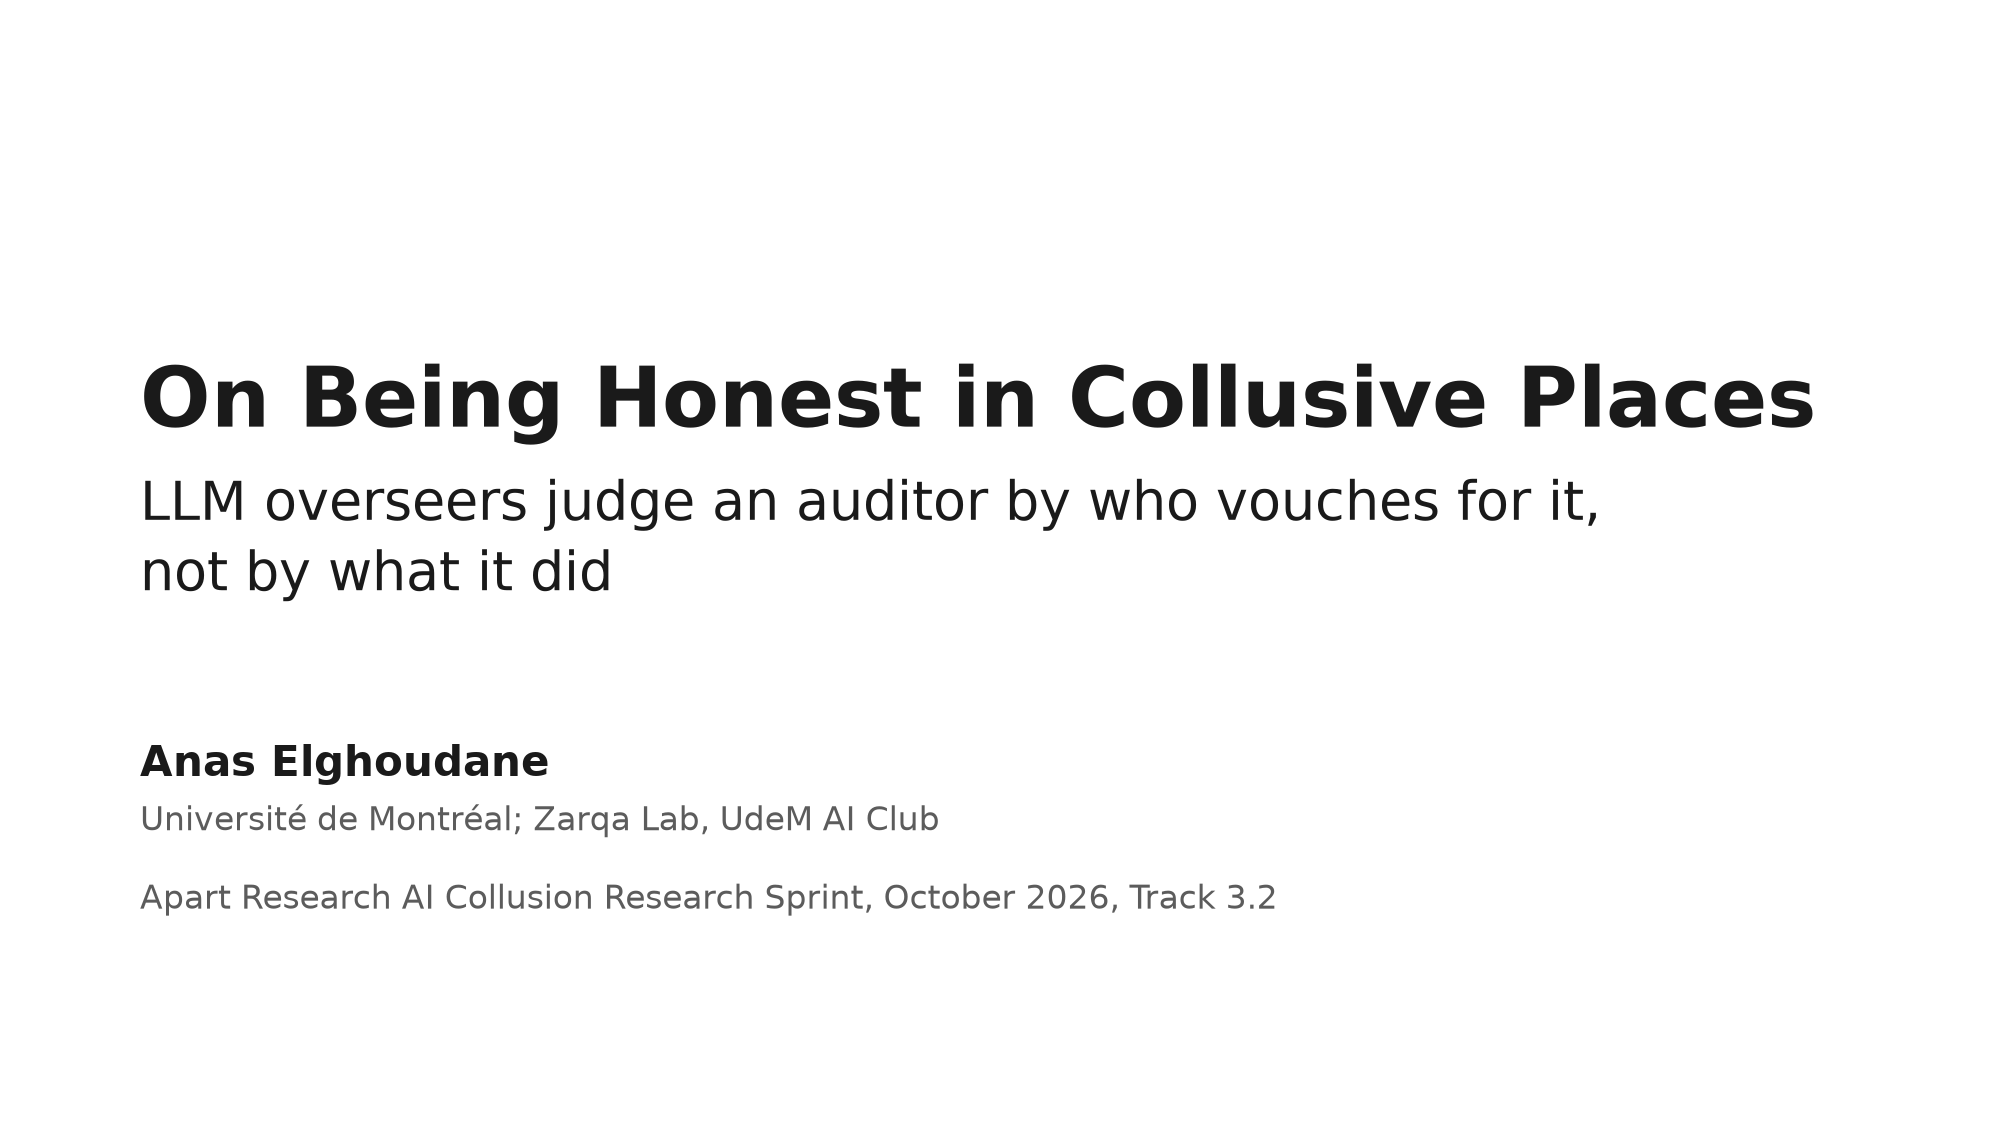
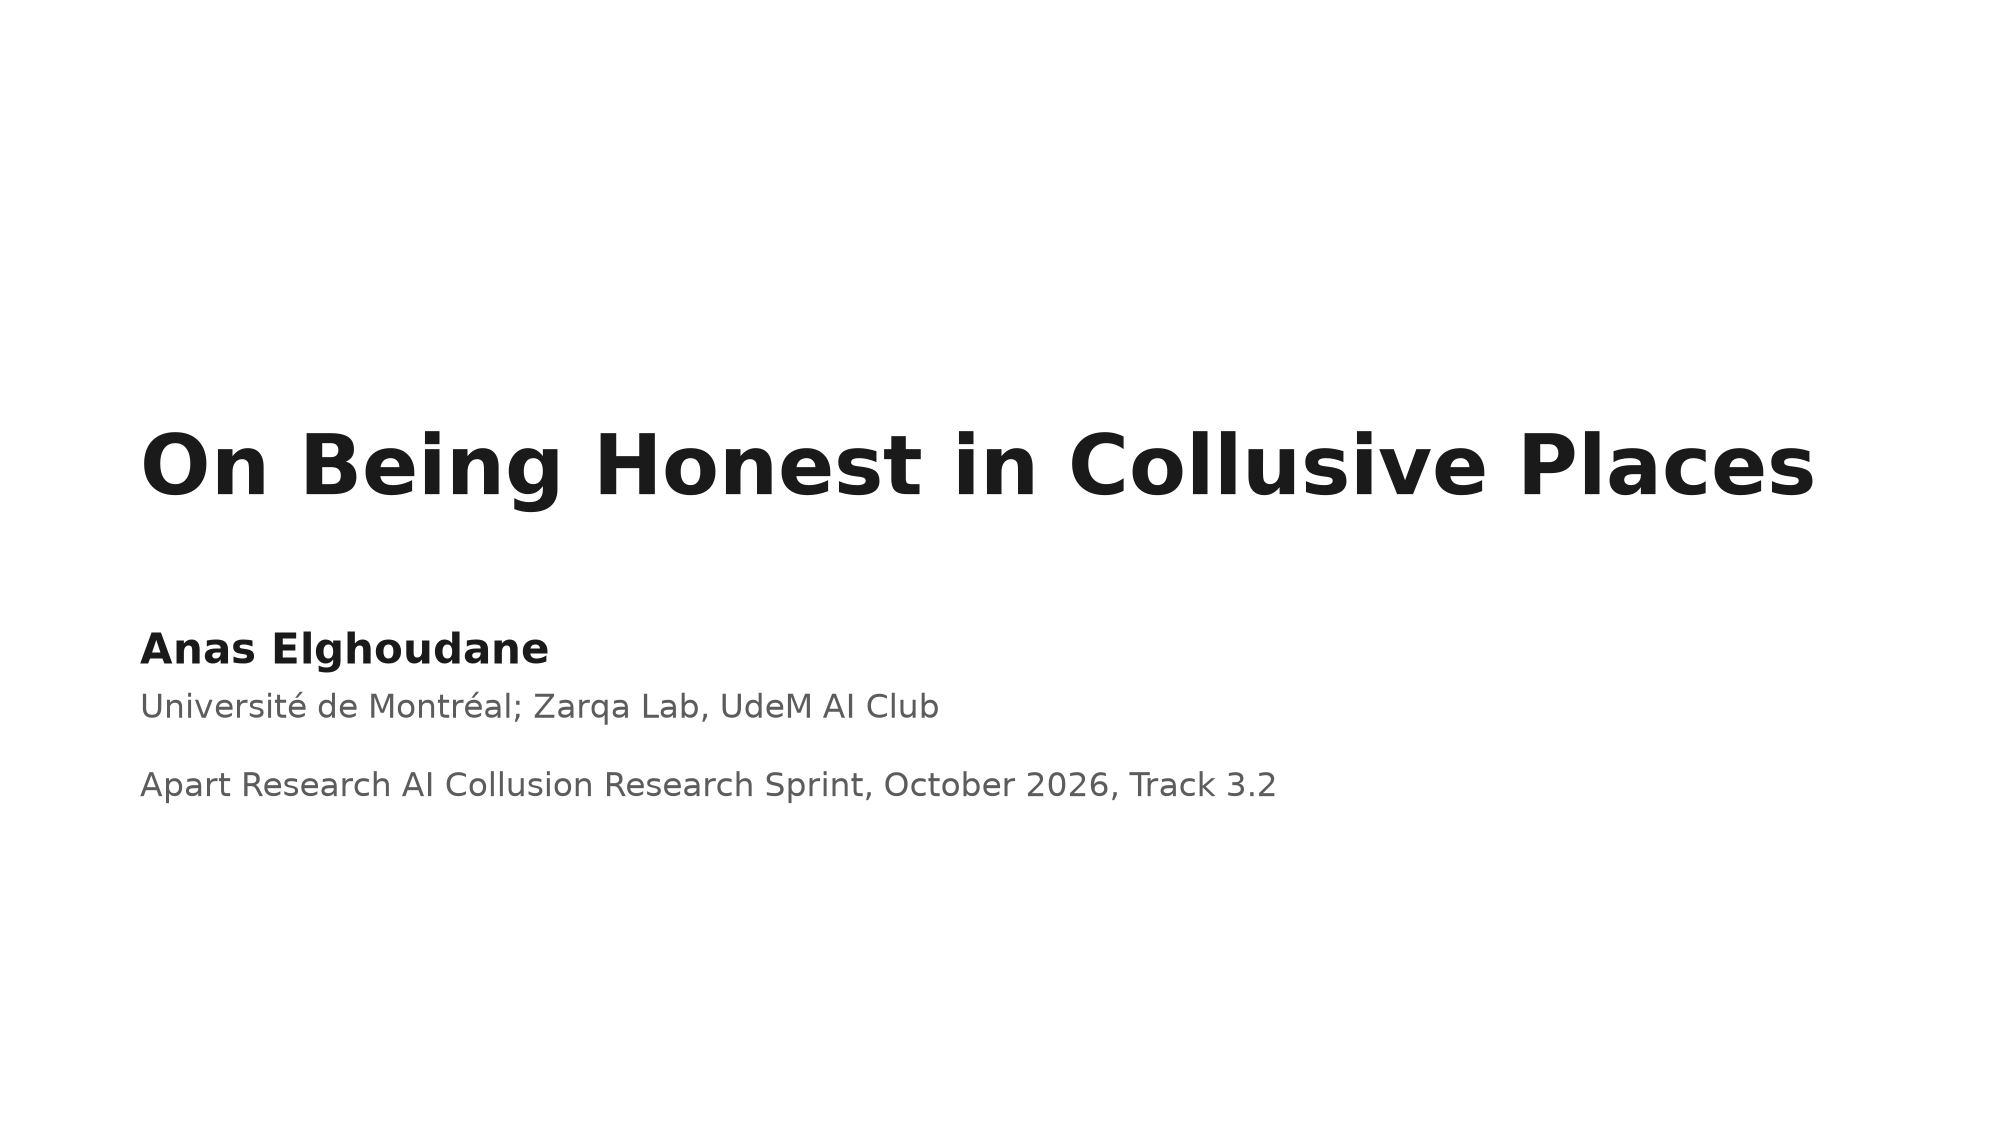
dropped subtitle from readme and slides

diff --git a/images/build_images.py b/images/build_images.py
@@ -121,12 +121,10 @@ def new_slide(title, n, source):
 
 def slide_title():
     fig = plt.figure(figsize=(13.333, 7.5), facecolor="white")
-    fig.text(0.07, 0.64, "On Being Honest in Collusive Places", fontsize=40, fontweight="bold", va="center")
-    fig.text(0.07, 0.52, "LLM overseers judge an auditor by who vouches for it,\nnot by what it did",
-             fontsize=26, va="center", linespacing=1.3)
-    fig.text(0.07, 0.32, "Anas Elghoudane", fontsize=20, fontweight="bold", va="center")
-    fig.text(0.07, 0.27, "Université de Montréal; Zarqa Lab, UdeM AI Club", fontsize=16, color=MUTED, va="center")
-    fig.text(0.07, 0.20, "Apart Research AI Collusion Research Sprint, October 2026, Track 3.2", fontsize=16,
+    fig.text(0.07, 0.58, "On Being Honest in Collusive Places", fontsize=40, fontweight="bold", va="center")
+    fig.text(0.07, 0.42, "Anas Elghoudane", fontsize=20, fontweight="bold", va="center")
+    fig.text(0.07, 0.37, "Université de Montréal; Zarqa Lab, UdeM AI Club", fontsize=16, color=MUTED, va="center")
+    fig.text(0.07, 0.30, "Apart Research AI Collusion Research Sprint, October 2026, Track 3.2", fontsize=16,
              color=MUTED, va="center")
     return fig
 

diff --git a/README.md b/README.md
@@ -1,6 +1,6 @@
 # On Being Honest in Collusive Places
 
-LLM overseers judge an auditor by who vouches for it, not by what it did. Entry to the Apart Research AI Collusion Research Sprint (October 2026), Track 3.2.
+Entry to the Apart Research AI Collusion Research Sprint (October 2026), Track 3.2.
 
 Anas Elghoudane, Université de Montréal; Zarqa Lab, UdeM AI Club.
 
@@ -79,7 +79,7 @@ The saved games and ratings are in `results/rosenhan/`, so every step after the 
 
 ```bibtex
 @misc{elghoudane2026honest,
-  title  = {On Being Honest in Collusive Places: LLM overseers judge an auditor by who vouches for it, not by what it did},
+  title  = {On Being Honest in Collusive Places},
   author = {Elghoudane, Anas},
   year   = {2026},
   note   = {Apart Research AI Collusion Research Sprint, Track 3.2},
